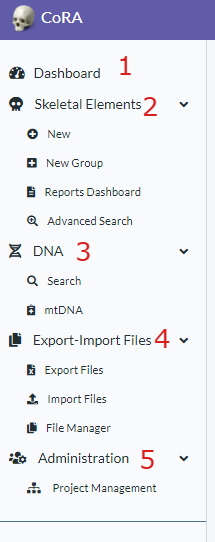
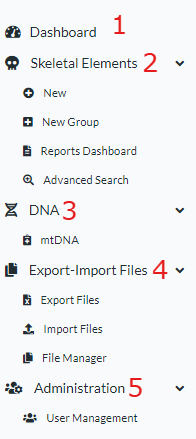
removed old images and added new left sidebar images

diff --git a/docs/user-guide/site-navigation.md b/docs/user-guide/site-navigation.md
@@ -57,7 +57,7 @@ The CoRA web application consists of the four basic components. These are-
     
     The Left side bar for the Org Admin includes-
         
-     ![LeftsideBar](../images/site_navigation/leftsidebar_orgadmin.png) 
+     ![LeftsideBar](../images/site_navigation/leftsidebar_org.png) 
         
      1. The Dashboard icon (1) takes the user to the dashboard based on the user-role. If the user is Anthropologist then the Anthropologist dashboard will open and if the user iss Org-Admin the Org-Admin Dashboard will open.
              The dashboard page contains data visualization of the skeletal elements data and dna module. 
